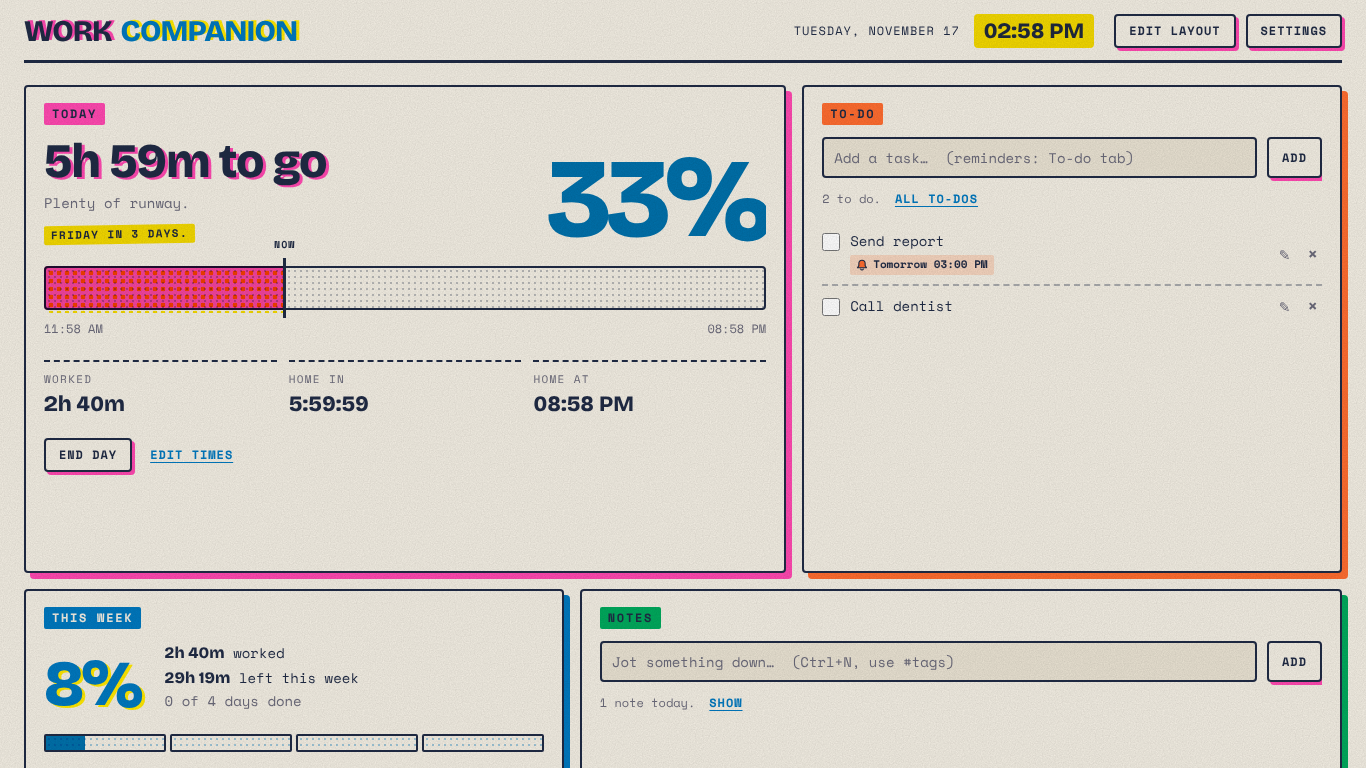
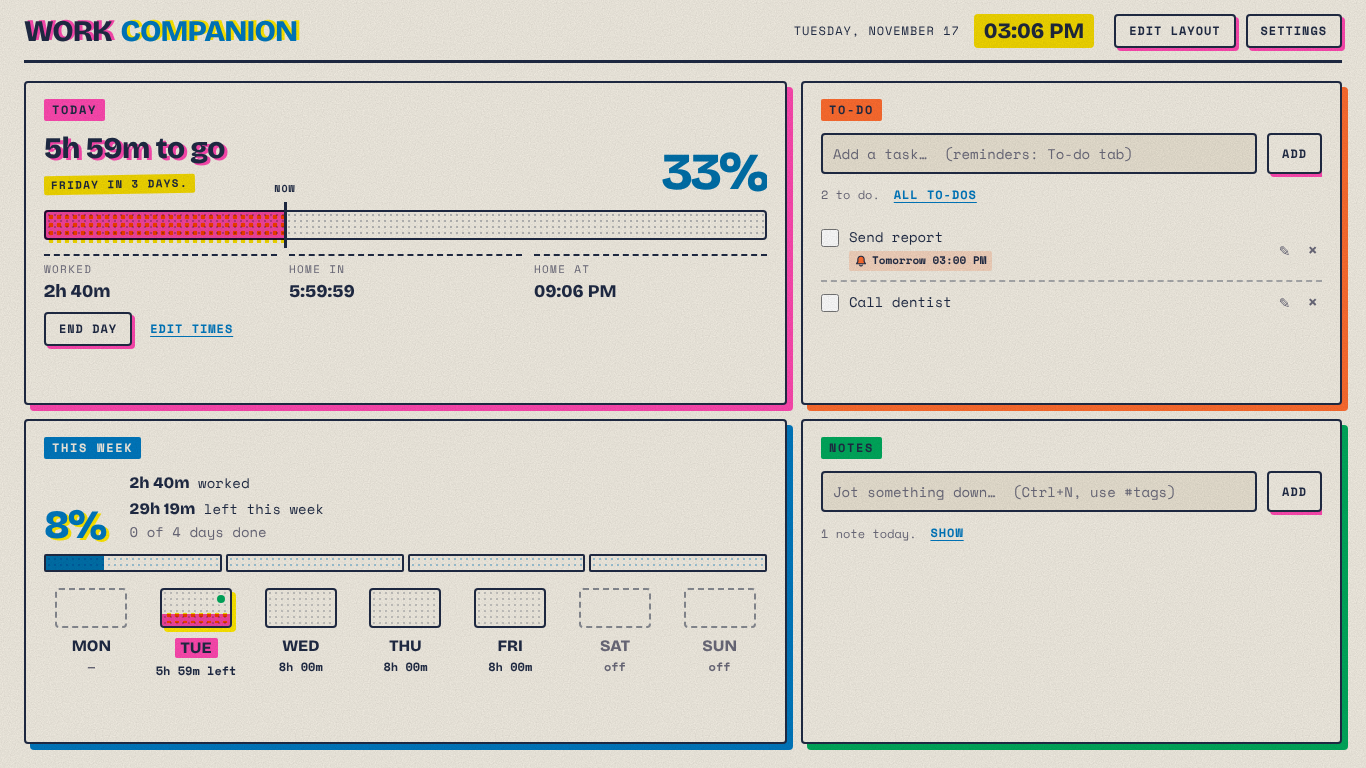
Widget board fits the window height exactly
Row height is computed so the lowest card ends at the bottom of the
window; cards are size containers and tighten their contents when short.
Default board is one screen (Today, To-do, This week, Notes). Add widget
fills an empty gap first.

Claude-Session: https://claude.ai/code/session_01FiC4Xn9SE4JhBLFRaxtban

Changed region(s): [[0.0, 0.0938, 1.0, 1.0], [0.9224, 0.8438, 0.9839, 0.9062], [0.7379, 0.0312, 0.7687, 0.0625]]

diff --git a/src/core/board-view.js b/src/core/board-view.js
@@ -14,6 +14,8 @@ export function boardView({ h, cards, modules, firstView }) {
   const viewOf = Object.fromEntries(modules.map((m) => [m.id, m.view ?? firstView]));
   let items = board.layout();
   let editing = false;
+  let dragging = false;   // row height is frozen while a card is dragged
+  const wide = matchMedia('(min-width: 701px)');
   let active = false;
   const sizeLabels = new Map();
 
@@ -61,7 +63,25 @@ export function boardView({ h, cards, modules, firstView }) {
     addSel.replaceChildren(h('option', { value: '' }, hidden.length ? `Add widget (${hidden.length})…` : 'All widgets shown'),
       ...hidden.map((m) => h('option', { value: m.id }, m.title)));
     addSel.disabled = !hidden.length;
+    if (!dragging) fit(view);
     requestAnimationFrame(markClipped);
+  }
+
+  // Fit the window: row height is chosen so the lowest card ends exactly at the bottom of the
+  // window, whatever its size. Below MIN_ROW px per row the board scrolls instead of squashing.
+  const MIN_ROW = 14;
+  function fit(view = items) {
+    if (!active) return;
+    if (!wide.matches) { el.style.removeProperty('--row'); el.style.removeProperty('height'); return; }
+    const cs = getComputedStyle(el);
+    const gap = parseFloat(cs.rowGap) || 0;
+    const pad = parseFloat(cs.paddingTop) + parseFloat(cs.paddingBottom);
+    const rows = Math.max(1, ...Object.values(view).filter((it) => !it.hidden).map((it) => it.y + it.h));
+    const top = el.getBoundingClientRect().top + window.scrollY;
+    const avail = window.innerHeight - top - pad;
+    const row = Math.max(MIN_ROW, (avail - gap * (rows - 1)) / rows);
+    el.style.setProperty('--row', `${row}px`);
+    el.style.height = row > MIN_ROW ? `${window.innerHeight - top}px` : '';
   }
 
   function commit(next, focusId = null) {
@@ -97,6 +117,7 @@ export function boardView({ h, cards, modules, firstView }) {
     const sy = e.clientY + window.scrollY;
     const step = steps();
     let preview = items;
+    dragging = true;
     card.classList.add('is-dragging');
     document.body.classList.add(mode === 'move' ? 'board-moving' : 'board-resizing');
     const move = (ev) => {
@@ -114,7 +135,9 @@ export function boardView({ h, cards, modules, firstView }) {
       window.removeEventListener('pointercancel', end);
       card.classList.remove('is-dragging');
       document.body.classList.remove('board-moving', 'board-resizing');
+      dragging = false;
       if (preview !== items) commit(preview);
+      else fit();
     };
     window.addEventListener('pointermove', move);
     window.addEventListener('pointerup', end);
@@ -143,7 +166,10 @@ export function boardView({ h, cards, modules, firstView }) {
   }
   for (const card of cards.values()) card.querySelector('.card-body').addEventListener('scroll', markClipped, { passive: true });
   store.onChange(() => requestAnimationFrame(markClipped));
-  window.addEventListener('resize', markClipped);
+  window.addEventListener('resize', () => { fit(); markClipped(); });
+  wide.addEventListener('change', () => fit());
+  // The masthead can change height (buttons appear, Edit layout); refit when it does.
+  new ResizeObserver(() => fit()).observe(document.body);
   setInterval(markClipped, 1000);
 
   store.onChange((ns) => {
@@ -205,6 +231,8 @@ export function boardView({ h, cards, modules, firstView }) {
       active = false;
       setEditing(false);
       el.hidden = true;
+      el.style.removeProperty('--row');
+      el.style.removeProperty('height');
       for (const card of cards.values()) {
         card.hidden = false;
         card.classList.remove('is-clipped', 'board-flash');

diff --git a/src/styles/riso.css b/src/styles/riso.css
@@ -461,12 +461,17 @@ table.sheet { width: 100%; border-collapse: collapse; font-size: 13px; min-width
 .board {
   --row: 40px;
   display: grid; grid-template-columns: repeat(12, minmax(0, 1fr)); grid-auto-rows: var(--row);
-  gap: 16px; padding: 22px 24px 40px; position: relative;
+  gap: 14px; padding: 18px 24px 24px; position: relative;
 }
 .board > .card {
   grid-column: var(--gx) / span var(--gw); grid-row: var(--gy) / span var(--gh);
   display: flex; flex-direction: column; min-height: 0; overflow: hidden;
   container-type: inline-size; padding: 16px 18px 18px;
+}
+/* wide: --row and the board height are set by core/board-view.js so the board fits the window;
+   cards are size containers so their insides can also react to their own height */
+@media (min-width: 701px) {
+  .board > .card { container-type: size; }
 }
 .board > .card .card-title { align-self: flex-start; flex: none; margin-bottom: 12px; }
 .board > .card .card-body { flex: 1; min-height: 0; overflow-y: auto; overflow-x: hidden; }
@@ -497,7 +502,7 @@ table.sheet { width: 100%; border-collapse: collapse; font-size: 13px; min-width
 
 /* edit mode: halftone paper, each card gets a grip, a size tag, × and a resize corner */
 .board-chrome { display: none; }
-.board-editing .board { color: rgba(31, 42, 68, .16); background: var(--halftone); background-origin: content-box; padding-bottom: 160px; }
+.board-editing .board { color: rgba(31, 42, 68, .16); background: var(--halftone); background-origin: content-box; }
 .board-editing .board > .card { color: var(--ink); user-select: none; }
 .board-editing .board > .card .card-body { pointer-events: none; opacity: .55; }
 .board-editing .board-chrome { display: block; position: absolute; inset: 0; z-index: 3; }
@@ -547,6 +552,29 @@ table.sheet { width: 100%; border-collapse: collapse; font-size: 13px; min-width
   .stamp { top: 8px; right: 14px; padding: 6px 10px 5px; }
   .stamp-big { font-size: 17px; }
   .sheet-range { margin-left: 0; padding-bottom: 0; width: 100%; }
+}
+
+/* short widgets: tighten the big pieces */
+@container (max-height: 420px) {
+  .today-pct { font-size: 64px; }
+  .today-headline { font-size: 30px; }
+  .bar { height: 30px; margin-top: 16px; }
+  .stats { margin-top: 14px; }
+  .stats dd { font-size: 18px; }
+  .actions { margin-top: 14px; }
+  .btn-primary { font-size: 18px; padding: 12px 20px; }
+  .week-big { font-size: 46px; }
+  .ribbon { margin-top: 12px; }
+  .week-cols { margin-top: 12px; }
+  .day-bar { height: 64px; }
+}
+@container (max-height: 360px) {
+  .today-sub, .bar-labels, .day-date { display: none; }
+  .today-pct { font-size: 52px; }
+  .week-big { font-size: 40px; }
+  .day-bar { height: 40px; }
+  .stats > div { padding-top: 6px; }
+  .actions { margin-top: 10px; }
 }
 
 /* narrow window: the board stacks in reading order and can't be edited */

diff --git a/src/modules/index.js b/src/modules/index.js
@@ -17,14 +17,15 @@ registerView({ id: 'todo', title: 'To-do' });
 [today, tasks, notes, week, calendar, timesheet, search, tasklist].forEach(register);
 
 // Where each module starts on the widget board (Settings → Layout → Widget board).
-// 12 columns; y / h in rows. Hidden ones can be added from Edit layout → Add widget.
+// 12 columns; y / h in rows. The board scales its rows so the lowest card ends at the bottom
+// of the window, so this default is one screen. Hidden ones are in Edit layout → Add widget.
 setBoardDefaults({
-  today:     { x: 0, y: 0,  w: 7, h: 9 },
-  tasks:     { x: 7, y: 0,  w: 5, h: 9 },
-  week:      { x: 0, y: 9,  w: 5, h: 8 },
-  notes:     { x: 5, y: 9,  w: 7, h: 4 },
-  search:    { x: 5, y: 13, w: 7, h: 4, hidden: true },
-  calendar:  { x: 0, y: 17, w: 12, h: 12 },
-  timesheet: { x: 0, y: 29, w: 12, h: 10, hidden: true },
-  tasklist:  { x: 0, y: 39, w: 6, h: 10, hidden: true },
+  today:     { x: 0, y: 0, w: 7, h: 7 },
+  tasks:     { x: 7, y: 0, w: 5, h: 7 },
+  week:      { x: 0, y: 7, w: 7, h: 7 },
+  notes:     { x: 7, y: 7, w: 5, h: 7 },
+  calendar:  { x: 0, y: 14, w: 12, h: 12, hidden: true },
+  search:    { x: 7, y: 14, w: 5, h: 6, hidden: true },
+  timesheet: { x: 0, y: 26, w: 12, h: 10, hidden: true },
+  tasklist:  { x: 0, y: 36, w: 6, h: 10, hidden: true },
 });

diff --git a/src/core/board.js b/src/core/board.js
@@ -71,11 +71,22 @@ export function hide(items, id) {
   return out;
 }
 
-// Shows a hidden widget again, at the bottom of the board.
+// Shows a hidden widget again: in an empty gap big enough for it if there is one, otherwise at
+// the bottom. The board fits the window, so every added row shrinks the rest: a widget added at
+// the bottom is capped at half the board's current height (resize it afterwards as you like).
 export function show(items, id) {
   const out = structuredClone(items);
   const { hidden, ...it } = out[id];
-  out[id] = tidy({ ...it, x: 0, y: bottomOf(out) });
+  const rows = bottomOf(out);
+  const shown = Object.values(out).filter((o) => !o.hidden);
+  for (let y = 0; y + it.h <= rows; y++) {
+    for (let x = 0; x + it.w <= COLS; x++) {
+      const spot = { x, y, w: it.w, h: it.h };
+      if (!shown.some((o) => overlaps(o, spot))) { out[id] = tidy(spot); return out; }
+    }
+  }
+  const h = rows ? Math.min(it.h, Math.max(MIN_H + 2, Math.round(rows / 2))) : it.h;
+  out[id] = tidy({ ...it, h, x: 0, y: rows });
   return out;
 }
 
